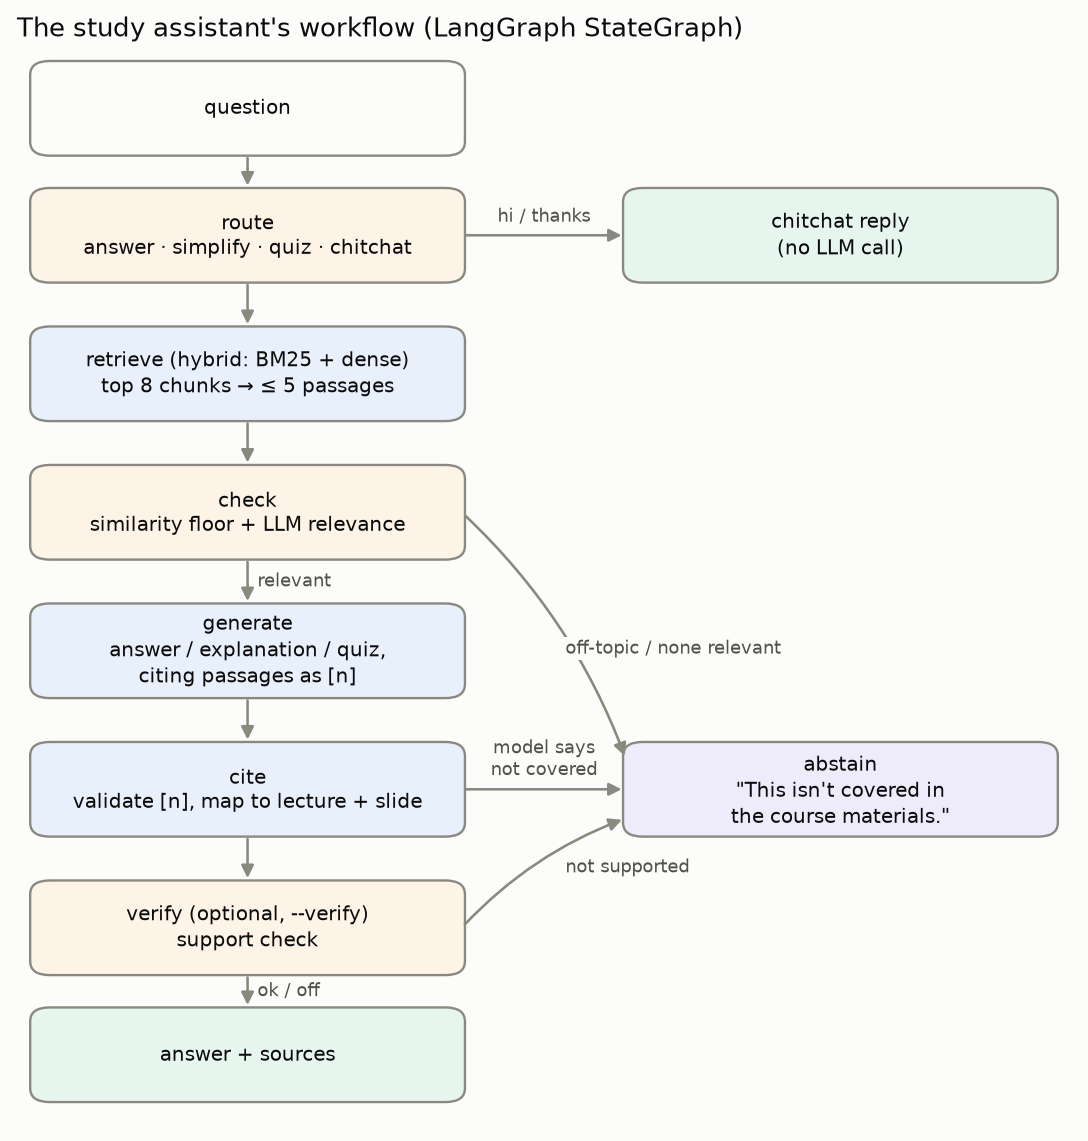
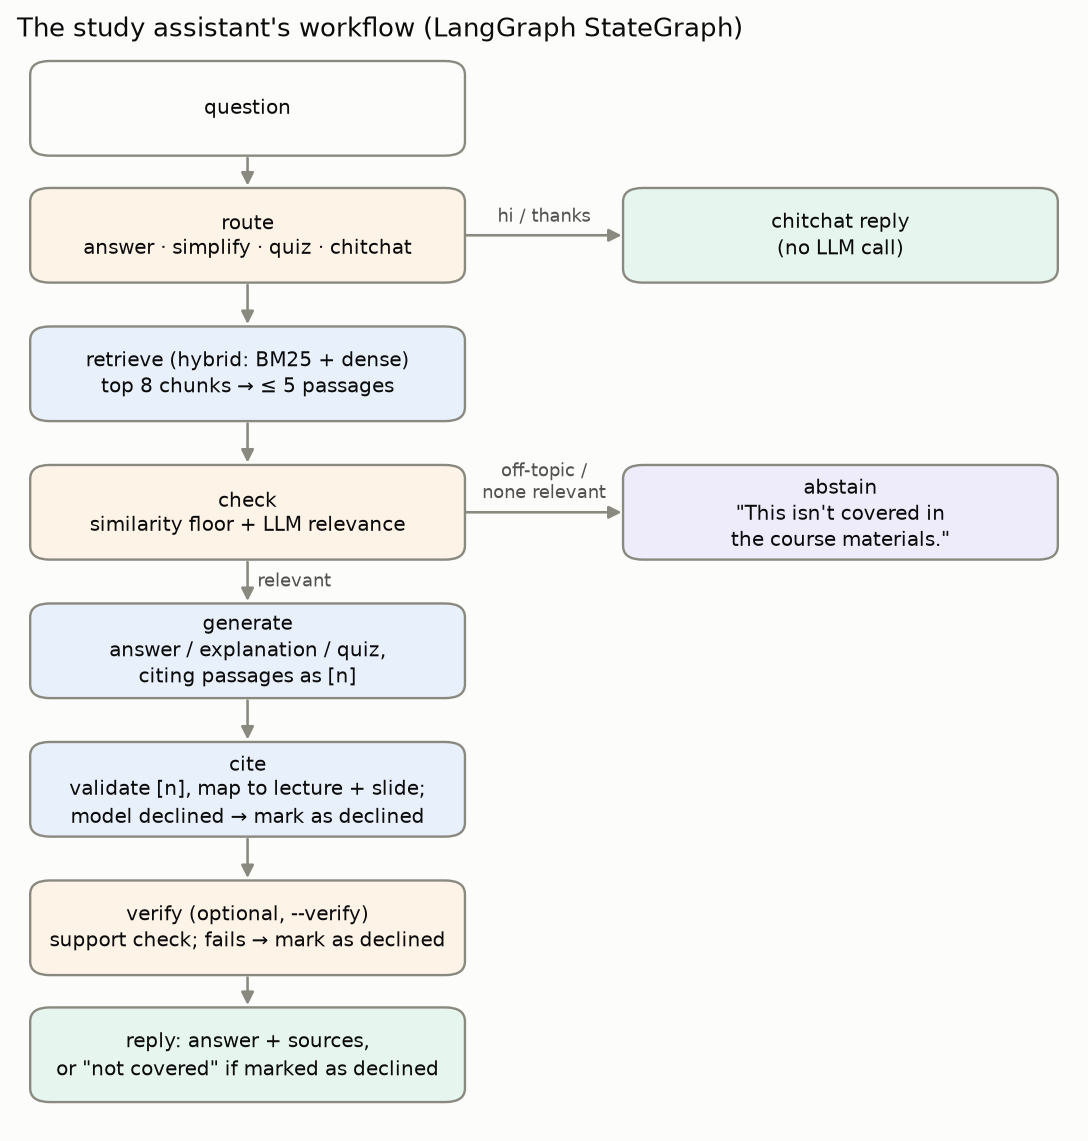
Fix small inconsistencies: workflow diagrams match the graph, counts, run time
- workflow.png and README mermaid: only 'check' routes to the abstain node; cite and verify mark the
  reply as declined and continue to the end, as in the code
- assistant.py: 'mode collapse' beat six real questions (not seven); evaluation.py: 9 near-misses,
  1 trap, 2 off-topic
- run time stated as about 2¾ hours everywhere (sum of RUN_INFO.md timings)

diff --git a/docs/figures/make_workflow.py b/docs/figures/make_workflow.py
@@ -19,16 +19,15 @@ NODES = {
     "retrieve": (0.5, 6.7, "retrieve (hybrid: BM25 + dense)\ntop 8 chunks → ≤ 5 passages", NODE),
     "check": (0.5, 5.5, "check\nsimilarity floor + LLM relevance", DECIDE),
     "generate": (0.5, 4.3, "generate\nanswer / explanation / quiz,\nciting passages as [n]", NODE),
-    "cite": (0.5, 3.1, "cite\nvalidate [n], map to lecture + slide", NODE),
-    "verify": (0.5, 1.9, "verify (optional, --verify)\nsupport check", DECIDE),
-    "answer": (0.5, 0.8, "answer + sources", DONE),
-    "abstain": (4.1, 3.1, "abstain\n\"This isn't covered in\nthe course materials.\"", STOP),
+    "cite": (0.5, 3.1, "cite\nvalidate [n], map to lecture + slide;\nmodel declined → mark as declined", NODE),
+    "verify": (0.5, 1.9, "verify (optional, --verify)\nsupport check; fails → mark as declined", DECIDE),
+    "answer": (0.5, 0.8, "reply: answer + sources,\nor \"not covered\" if marked as declined", DONE),
+    "abstain": (4.1, 5.5, "abstain\n\"This isn't covered in\nthe course materials.\"", STOP),
 }
 EDGES = [  # (from, to, label)
     ("q", "route", ""), ("route", "chit", "hi / thanks"), ("route", "retrieve", ""),
-    ("retrieve", "check", ""), ("check", "generate", "relevant"), ("check", "abstain", "off-topic / none relevant"),
-    ("generate", "cite", ""), ("cite", "abstain", "model says\nnot covered"), ("cite", "verify", ""),
-    ("verify", "abstain", "not supported"), ("verify", "answer", "ok / off"),
+    ("retrieve", "check", ""), ("check", "generate", "relevant"), ("check", "abstain", "off-topic /\nnone relevant"),
+    ("generate", "cite", ""), ("cite", "verify", ""), ("verify", "answer", ""),
 ]
 W, H = 2.6, 0.78
 

diff --git a/src/study_assistant/evaluation.py b/src/study_assistant/evaluation.py
@@ -2,7 +2,7 @@
 
 Question set: eval/questions.jsonl, 50 questions written for this step (none reused from
 development): 38 answerable (30 using the course's terms, 8 paraphrased) and 12 not covered
-(9 near-misses that sound like course topics, 3 off-topic). Every reference answer was written
+(9 near-misses that sound like course topics, 1 trap, 2 off-topic). Every reference answer was written
 from the cited slide/notebook, and a check confirmed each key fact appears in the gold material
 and each not-covered topic does not appear anywhere in the course.
 

diff --git a/src/study_assistant/assistant.py b/src/study_assistant/assistant.py
@@ -16,8 +16,8 @@
       END
 
 Why the relevance check: Step 2 showed that similarity scores can't tell covered from
-not-covered questions ("capital of France" scored like a real question, "mode collapse"
-beat seven real ones), so the LLM reads the passages and decides.
+not-covered questions ("capital of France" scored above the weakest real question, "mode collapse"
+beat six real ones), so the LLM reads the passages and decides.
 
     from study_assistant.assistant import StudyAssistant
     from study_assistant.llm import get_llm

diff --git a/README.md b/README.md
@@ -48,10 +48,9 @@ flowchart TD
     RET --> CHK{relevant?<br/>similarity floor + LLM check}
     CHK -->|no| ABS["abstain:<br/>'This isn't covered in the course materials.'"]
     CHK -->|yes| GEN[generate<br/>answer / simple explanation / quiz<br/>citing passages as n]
-    GEN --> CITE[cite<br/>validate citations, map to lecture + slide]
-    CITE -->|model says not covered| ABS
-    CITE -.->|optional --verify| VER{support check}
-    VER -->|fails| ABS
+    GEN --> CITE[cite<br/>validate citations, map to lecture + slide;<br/>model said not covered → mark as declined]
+    CITE --> VER{verify<br/>optional support check;<br/>fails → mark as declined}
+    VER --> OUT[reply: answer + sources,<br/>or 'not covered' if declined]
 ```
 
 ## Run it
@@ -87,7 +86,7 @@ uv run python -m study_assistant.llm -b ollama "What is a GAN?"
 
 ```bash
 ./scripts/run_evaluation.sh        # re-runs every configuration into a new eval/runs/<date>-<commit>/ folder
-                                   # (~2.5 h on an M2, needs Ollama + llama3.1:8b); eval/results/ is never touched
+                                   # (~2¾ h on an M2, needs Ollama + llama3.1:8b); eval/results/ is never touched
 uv run python eval/analysis.py     # the reported run: hand-checked and strict scores, 95% intervals, McNemar tests
 uv run python eval/analysis.py --results eval/runs/<folder>   # the same for your own run
 ```

diff --git a/docs/report.md b/docs/report.md
@@ -323,7 +323,7 @@ git clone https://github.com/SowrisKumar/course-study-assistant.git && cd course
 uv sync && uv run pytest                        # 120+ tests; the first run downloads the embedding model
 ollama pull llama3.1:8b                         # local model (or add a Gemini/OpenAI key to .env)
 uv run python -m study_assistant.chat -v        # chat with the assistant
-./scripts/run_evaluation.sh                     # reproduce every evaluation number (~2 h on an M2)
+./scripts/run_evaluation.sh                     # re-run every evaluation configuration (~2¾ h on an M2)
 uv run python eval/analysis.py                  # hand-corrected scores, intervals and tests
 ```
 
